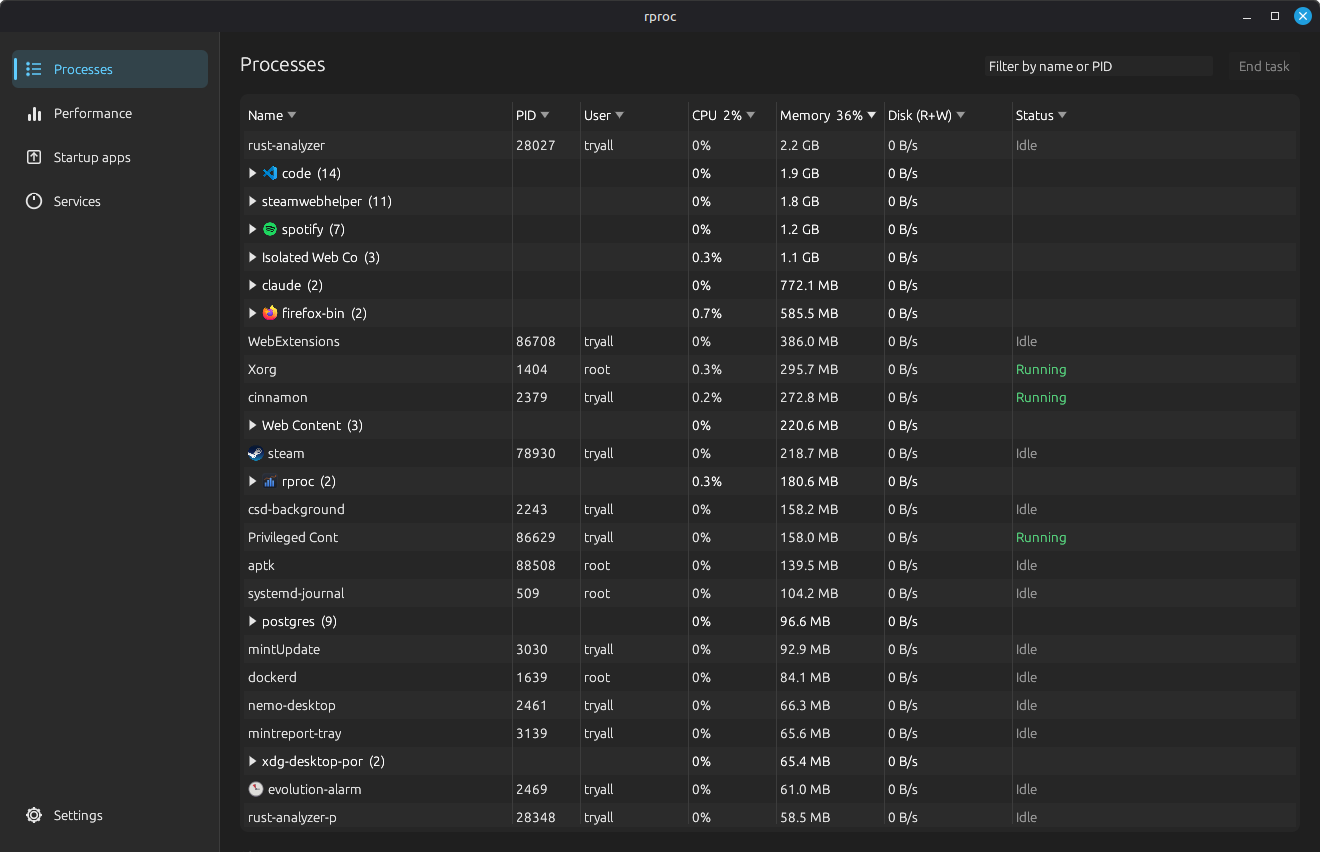
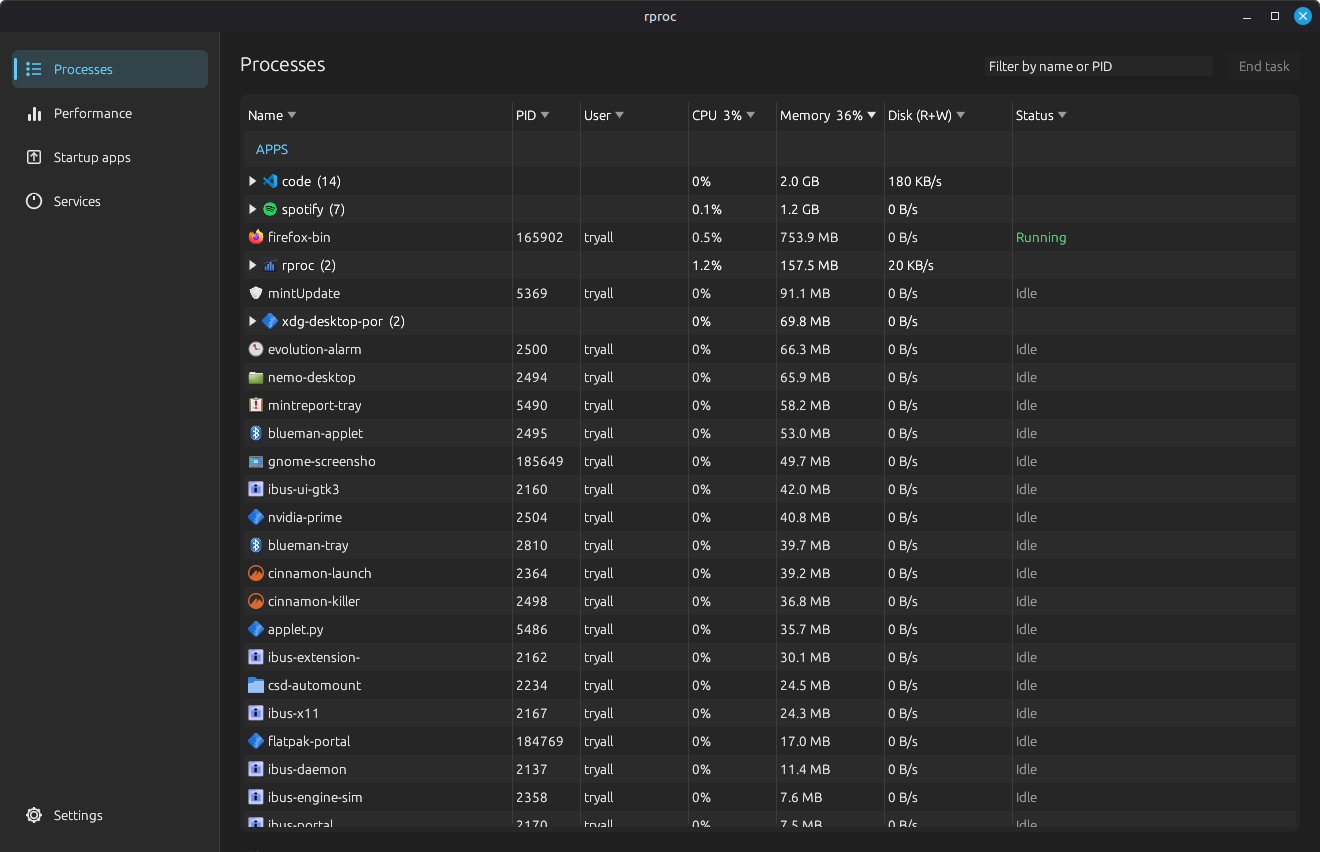
update readme and screen capture

diff --git a/README.md b/README.md
@@ -76,11 +76,12 @@ cargo run --release
 
 ## Features
 
-- **Processes**: CPU, memory, disk I/O, threads and status. Sort, filter and kill.
+- **Processes**: CPU, memory, disk I/O, threads and status, with app icons from the freedesktop icon theme. Sort, filter and kill.
 - **Performance**: live charts for CPU (global + per-core), memory, disks, network and GPU (NVIDIA / AMD / Intel).
+- **Per-process graph attribution** *(opt-in)*: hover a point on a Performance graph to see the top 5 processes behind that sample (CPU, RAM, disk and GPU). Off by default; enable it in Settings.
 - **Startup**: XDG autostart entries and enabled systemd units.
 - **Services**: systemctl system and user units.
-- **Settings**: adjustable refresh rate.
+- **Settings**: adjustable refresh rate and the per-process attribution toggle.
 
 <div align="center">
   <img src="./img/capture2.png" alt="Processes tab" width="450">